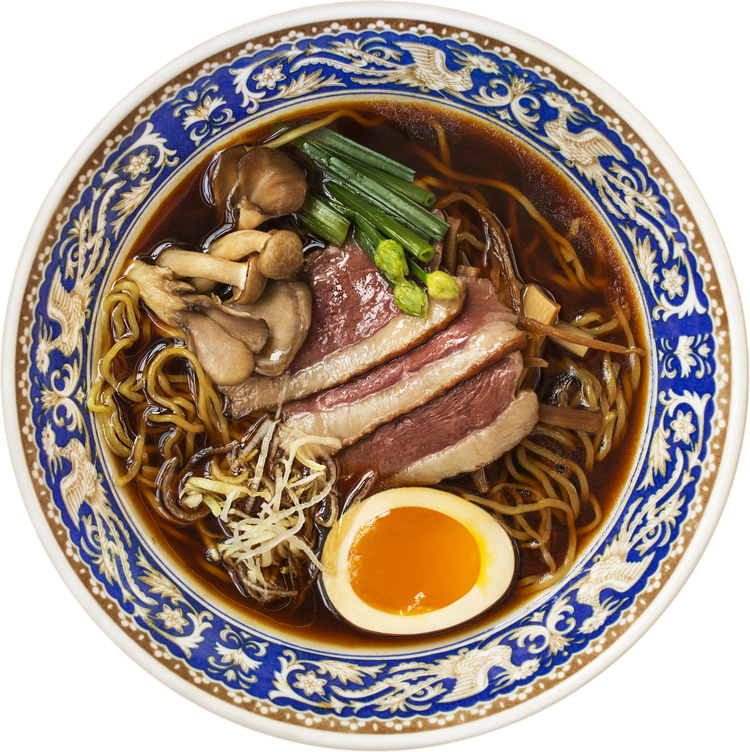
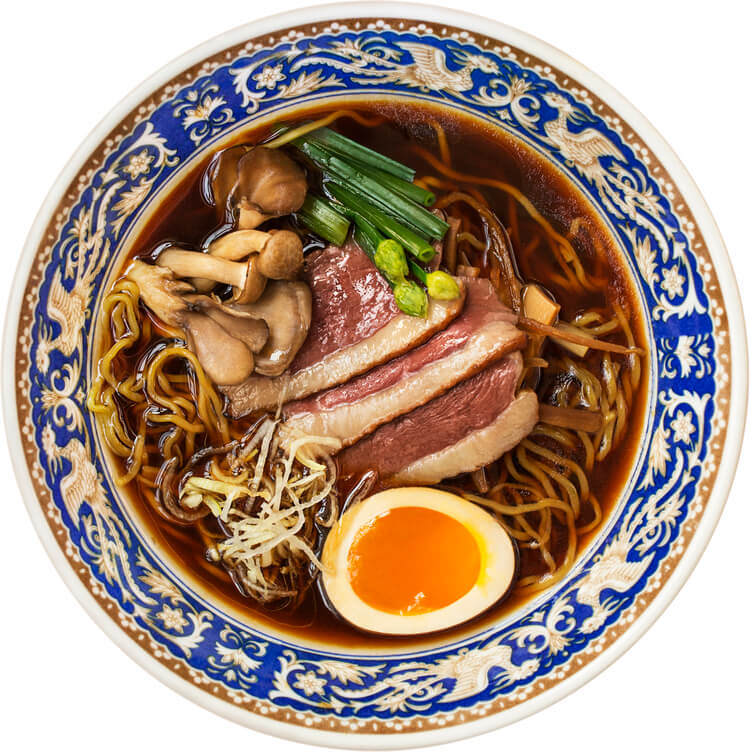
fix: optimize all images and remove location image

diff --git a/pages/sample/casual/about.tsx b/pages/sample/casual/about.tsx
@@ -3,6 +3,10 @@ import styled from 'styled-components';
 import NavBar from '../../../components/sample/casual/NavBar';
 import Image from 'next/image';
 import AzeretFontContainer from '@/components/sample/casual/AzeretFontContainer';
+import about1 from '@/public/images/sample/casual/about1.jpg';
+import about2 from '@/public/images/sample/casual/about2.jpg';
+import about3 from '@/public/images/sample/casual/about3.jpg';
+import hero from '@/public/images/sample/casual/hero.jpg';
 
 const Container = styled.div`
   border: 20px rgb(255, 229, 0) solid;
@@ -46,15 +50,15 @@ const Heading = styled.div`
   }
 `;
 
-const WideImageWrapper = styled.div`\
-  padding-top: 100px;
-  width: 100%;
-  margin: auto;
+const WideImageWrapper = styled.div`
+  display: block;
   text-align: center;
+  padding-top: 100px;
   .image {
-    width: 100% !important;
     position: relative !important;
     margin: auto !important;
+    object-fit: contain;
+    max-width: 1536px;
   }
 `;
 
@@ -116,10 +120,11 @@ export default function CasualRestaurantAbout() {
             <WideImageWrapper>
               <Image
                 className={'image'}
-                src="/images/sample/casual/about1.jpg"
+                src={about1}
                 fill={true}
                 alt="Noodles"
                 priority={true}
+                sizes="(min-width: 768px) 512px, (min-width: 1024px) 1024px, 256px"
               />
             </WideImageWrapper>
 
@@ -146,9 +151,11 @@ export default function CasualRestaurantAbout() {
             <WideImageWrapper>
               <Image
                 className={'image'}
-                src="/images/sample/casual/about2.jpg"
+                src={about2}
                 fill={true}
                 alt="More Noodles"
+                priority={true}
+                sizes="(min-width: 768px) 512px, (min-width: 1024px) 1024px, 256px"
               />
             </WideImageWrapper>
 
@@ -175,9 +182,11 @@ export default function CasualRestaurantAbout() {
             <WideImageWrapper>
               <Image
                 className={'image'}
-                src="/images/sample/casual/about3.jpg"
+                src={about3}
                 fill={true}
                 alt="Fire"
+                priority={true}
+                sizes="(min-width: 768px) 512px, (min-width: 1024px) 1024px, 256px"
               />
             </WideImageWrapper>
 
@@ -203,10 +212,12 @@ export default function CasualRestaurantAbout() {
             <SizedImage>
               <Image
                 className={'image'}
-                src="/images/sample/casual/hero.jpg"
+                src={hero}
                 width={300}
                 height={300}
                 alt="Picture of a bowl of ramen"
+                priority={true}
+                sizes="(min-width: 768px) 256px, (min-width: 1024px) 384px, 128px"
               />
             </SizedImage>
           </ContentContainer>

diff --git a/pages/sample/casual/contact.tsx b/pages/sample/casual/contact.tsx
@@ -3,6 +3,7 @@ import styled from 'styled-components';
 import NavBar from '../../../components/sample/casual/NavBar';
 import Image from 'next/image';
 import AzeretFontContainer from '@/components/sample/casual/AzeretFontContainer';
+import divider from '@/public/images/sample/casual/divider.png';
 
 const Container = styled.div`
   border: 20px rgb(255, 229, 0) solid;
@@ -40,16 +41,14 @@ const Title = styled.div`
   }
 `;
 
-const ImageWrapper = styled.div`\
-  padding-top: 100px;
-  width: 100%;
-  max-width: 800px;
-  margin: auto;
+const Subtitle = styled.div`
+  font-size: 25px;
   text-align: center;
-  .image {
-    width: 100% !important;
-    position: relative !important;
-    margin: auto !important;
+  letter-spacing: -0.05em;
+  padding-top: 50px;
+
+  @media (max-width: 768px) {
+    font-size: 15px;
   }
 `;
 
@@ -72,14 +71,6 @@ export default function CasualRestaurantContact() {
         <Container>
           <NavBar />
           <ContentContainer>
-            <ImageWrapper>
-              <Image
-                className={'image'}
-                src="/images/sample/casual/location.png"
-                fill={true}
-                alt="Map with the location of the restaurant"
-              />
-            </ImageWrapper>
             <Title>
               555 Wellington St.
               <br />
@@ -90,10 +81,11 @@ export default function CasualRestaurantContact() {
             <Divider>
               <Image
                 className={'image'}
-                src="/images/sample/casual/divider.png"
+                src={divider}
                 width={100}
                 height={50}
                 alt="Divider"
+                quality={20}
               />
             </Divider>
 
@@ -105,6 +97,15 @@ export default function CasualRestaurantContact() {
               <br />
               Every day
             </Title>
+
+            <Divider>
+              <Image className={'image'} src={divider} width={100} height={50} alt="Divider" />
+            </Divider>
+
+            <br />
+            <br />
+
+            <Subtitle>contact@chottomotto.com</Subtitle>
           </ContentContainer>
         </Container>
       </AzeretFontContainer>
